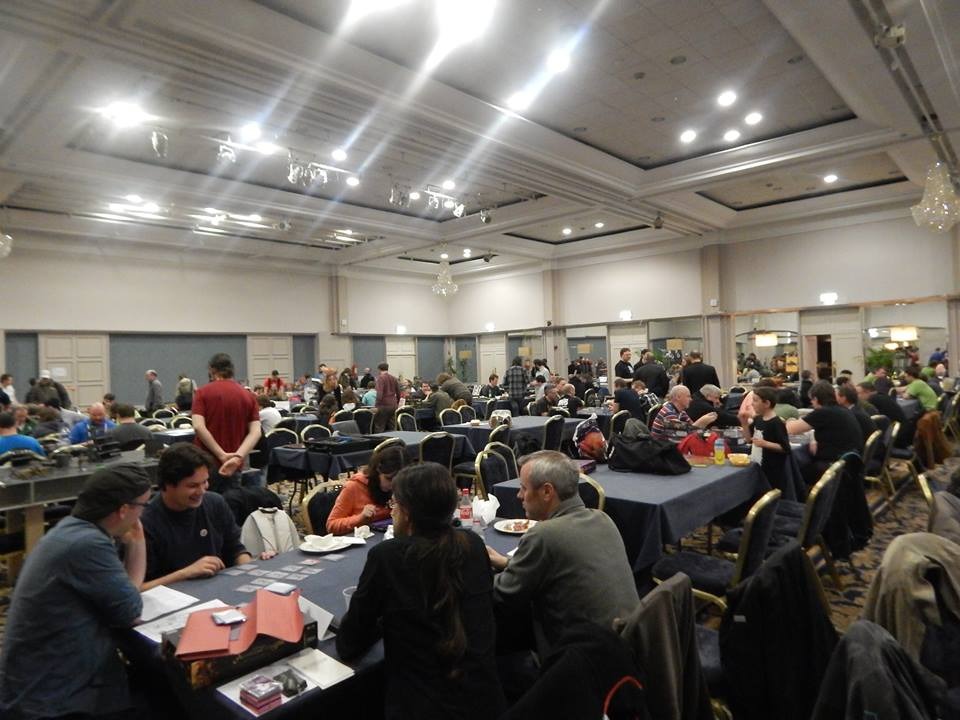
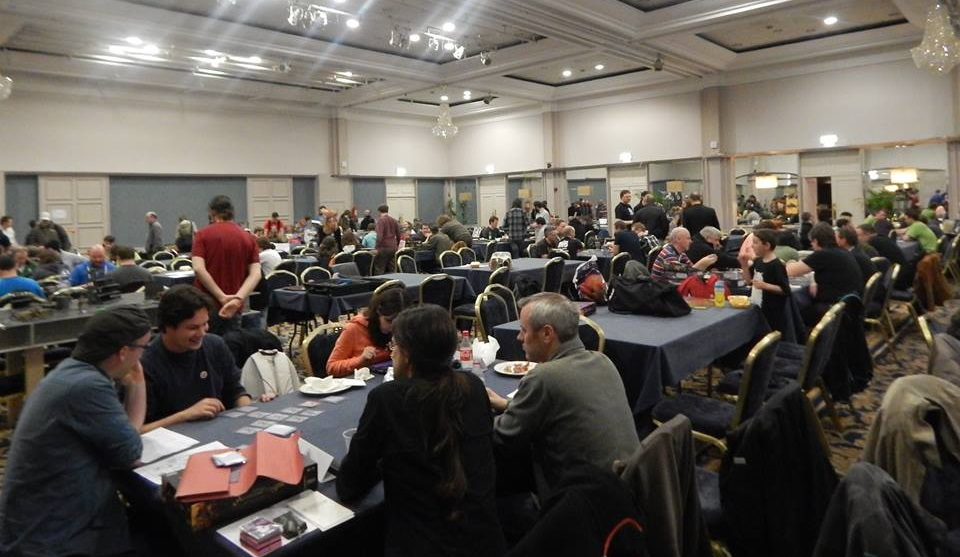
Replace background images in About Us with regular images.

diff --git a/index.html b/index.html
@@ -66,7 +66,8 @@
                     Likeminded designers from a variety of backgrounds help one-another invent, playtest, and develop each others games. Bring any games you've been working on - no matter where you are in their design process - and get some fresh eyes and fresh ideas!
                 </p>
             </div>
-            <div class="left-image" id="about-image-1">
+            <div class="left-about-image-container">
+                <img src="assets/images/about-us-1.jpg" alt="Image of a prototype boardgame." class="about-image">
             </div>
         
             <div class="left-text">
@@ -75,7 +76,8 @@
                     Many members of Board Game Designers Ireland have experience with publishing games and know of the unique challenges facing Irish publishers. Whether you want to self-publish a game through crowdfunding or pitch your game to more traditional publishing houses, we can advise you on common pitfalls, best practices, and provide industry contacts.
                 </p>
             </div>
-            <div class="right-image" id="about-image-2">
+            <div class="right-about-image-container">
+                <img src="assets/images/about-us-2.jpg" alt="Image of a published boardgame." class="about-image">
             </div>
         
             <div class="right-text">
@@ -84,7 +86,8 @@
                     A rising tide lifts all ships, so we work hard to raise the profile of Irish-made tabletop games. We hold annual public facing events, combine resources to attend international industry events (like the UK Games Expo and Essen Spiel), and give a positive face to our industry in the media.
                 </p>
             </div>
-            <div class="left-image" id="about-image-3">
+            <div class="left-about-image-container">
+                <img src="assets/images/about-us-3.jpg" alt="Image of a boardgame convention." class="about-image">
             </div>
             
         </section>

diff --git a/assets/css/style.css b/assets/css/style.css
@@ -132,7 +132,7 @@ header {
     height: 200px;
     float: right;
     clear: right;
-    text-align: left;
+    /* text-align: left; */
     width: 65%;
     padding-left: 5%;
     padding-top: 30px;
@@ -150,33 +150,23 @@ header {
     overflow: auto;
 }
 
-/* Left image and right image are established as classes in case more sections are added to About Us */
-.left-image {
+.left-about-image-container {
     height: 200px;
     width: 30%;
     float: left;
+    overflow: hidden;
 }
 
-.right-image {
+.right-about-image-container {
     height: 200px;
     width: 30%;
     float: right;
+    overflow: hidden;
 }
 
-/* Change these to regular images */
-#about-image-1 {
-    background: url('../images/about-us-1.jpg') no-repeat center center;
-    background-size: 450px;
-}
-
-#about-image-2 {
-    background: url('../images/about-us-2.jpg') no-repeat center center;
-    background-size: 500px;
-}
-
-#about-image-3 {
-    background: url('../images/about-us-3.jpg') no-repeat center center;
-    background-size: 500px;
+/* Scale the image to the width of the container div */
+.about-image {
+    width: 100%;
 }
 
 /* Rules for the meeting schedules */
